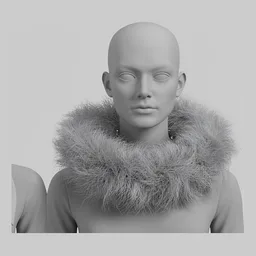
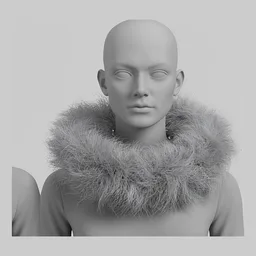
feat(oddlings): picture tiles for 24 accessory options; cleaner neck and leg tiles
Everyday accessories (5), accessories and markings (11) and signature props (8), on grey mannequins, matched to the catalog's own options. The slicer
gains an inset option that keeps the divider lines a sheet draws between cells out of a tile; neck and leg tiles are re-cut with it.
Tiny Handbag and Tiny Microphone were left on the drawn tile: their pictures are dominated by a tote bag and a giant comb.

diff --git a/app/veyrnox/_lib/oddlingPictureTiles.js b/app/veyrnox/_lib/oddlingPictureTiles.js
@@ -35,6 +35,14 @@ export const SKIN_PATTERN_TILE_STYLES = Object.freeze(['Solid', 'Stripes', 'Spot
 export const SPECIES_TILE_STYLES = Object.freeze([
   'Human', 'Elf', 'Alien', 'Moth', 'Spectre', 'Fungus', 'Amphibian', 'Reptile', 'Mantis', 'Bee', 'Octopus', 'Crocodile', 'Iguana', 'Lizard', 'Beetle', 'Ant', 'Cat', 'Dog', 'Rodent', 'Bird',
 ]);
+// Accessories: three catalog groups. Jewellery, Tiny Sunglasses, Tiny Handbag, Piercings, Cyber Markings, Tiny Microphone and Pocket Weather Station were not drawn cleanly (merged with another item, or dominated by one) and keep the drawn tile.
+export const EVERYDAY_ACCESSORIES_TILE_STYLES = Object.freeze(['Glasses', 'Round Glasses', 'Sunglasses', 'Everyday Bag', 'Tote Bag']);
+export const ACCESSORIES_TILE_STYLES = Object.freeze([
+  'Geometric Veil', 'Object Jewellery', 'Chrome Brows', 'Receipt Ribbons', 'Tiny Teacup', 'Bug Head Mask', 'Tiny Monocle', 'Impossible Handbag', 'Tattoos', 'Scarification', 'Symbols / Markings',
+]);
+export const DISTINCTIVE_FEATURES_TILE_STYLES = Object.freeze([
+  'Giant Comb', 'Sacred Stapler', 'Snack Sceptre', 'Miniature Chair', 'Impossible Handbag', 'Receipt Train', 'Miniature Thermos', 'Miniature Cake',
+]);
 export const MOUTH_TILE_STYLES = Object.freeze(['Large Mouth', 'No Teeth', 'Unique Teeth', 'Gap Teeth', 'Gold Tooth', 'Bright Smile', 'Sharp Teeth', 'Forked Tongue', 'Two Tongues']);
 
 /** Catalog group id -> folder under /oddlings and the options that have a file there. */
@@ -60,6 +68,9 @@ export const PICTURE_TILES = Object.freeze({
   face_skin_material: { dir: 'skin/face_skin_material', styles: SKIN_MATERIAL_TILE_STYLES },
   face_surface_pattern: { dir: 'skin/face_surface_pattern', styles: SKIN_PATTERN_TILE_STYLES },
   character_type: { dir: 'species', styles: SPECIES_TILE_STYLES },
+  everyday_accessories: { dir: 'accessories/everyday_accessories', styles: EVERYDAY_ACCESSORIES_TILE_STYLES },
+  accessories: { dir: 'accessories/accessories', styles: ACCESSORIES_TILE_STYLES },
+  distinctive_features: { dir: 'accessories/distinctive_features', styles: DISTINCTIVE_FEATURES_TILE_STYLES },
   facial_hair: { dir: 'face/facial_hair', styles: FACIAL_HAIR_TILE_STYLES },
   horns: { dir: 'face/horns', styles: HORNS_TILE_STYLES },
   face_features: { dir: 'face/face_features', styles: FACE_FEATURES_TILE_STYLES },

diff --git a/lib/generatedProductInventory.js b/lib/generatedProductInventory.js
@@ -1,5 +1,5 @@
 // Generated by scripts/sync-vey-knowledge.mjs. Do not edit by hand.
-export const GENERATED_KNOWLEDGE_VERSION = "ee9790cc78d00fde2e8d";
+export const GENERATED_KNOWLEDGE_VERSION = "69f0d398d89743d8779f";
 
 export const AUTO_PRODUCT_INVENTORY = Object.freeze([
   {
@@ -1653,7 +1653,7 @@ export const AUTO_PRODUCT_INVENTORY = Object.freeze([
       "/legal/refund"
     ],
     "source": "app/veyrnox/app/oddlings/page.js",
-    "sourceHash": "8938b6807a360893"
+    "sourceHash": "ade1e8718bb67ca1"
   },
   {
     "id": "route:/app",
